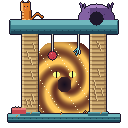
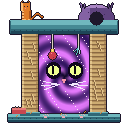
Cat gate: the portal fills the whole gap under the perch, violet vortex with a cat face (slit eyes in dark sockets, nose, whiskers), closed and beaten states are yarn only with no background, bell and paw prints

Changed region(s): [[0.2812, 0.25, 0.7188, 0.9375]]

diff --git a/tools/hub/gates_new.js b/tools/hub/gates_new.js
@@ -39,7 +39,7 @@ const save = (c, rel) => { fs.mkdirSync(path.dirname(path.join(ROOT, rel)), { re
 // THE CAT'S GATE: a cat tree
 // =========================================================================================================================
 const CAT = {
-  open: { x0: 38, x1: 90, y0: 42, y1: 118, r: 14 },    // the doorway: a rounded cat-hole between the posts
+  open: { x0: 38, x1: 90, y0: 35, y1: 114, r: 0 },     // the doorway: the whole gap between the posts, from under the perch to the plinth
   outline: [30, 24, 44],
   sisal: [[226, 196, 140], [206, 172, 114], [176, 140, 90], [138, 104, 66]],
   carpet: [[112, 184, 190], [70, 138, 148], [48, 104, 118], [30, 70, 88]],
@@ -73,8 +73,10 @@ function catFrame(sleeping, phase) {
   disc(c, 96, 18, 7, CAT.outline); rect(c, 89, 18, 104, 20, CAT.outline);                                 // the hide's doorway
   for (const [x, y] of [[88, 12], [104, 14], [96, 7]]) set(c, x, y, CAT.plush[3]);
   // The toys: a pom-pom on a string in the doorway, a feather on the right.
-  line(c, 52, 34, 52, 52, [220, 210, 190]); disc(c, 52, 55, 4, [204, 60, 76]); set(c, 51, 53, [240, 140, 150]); set(c, 53, 57, [150, 36, 56]);
+  line(c, 52, 34, 52, 52, [220, 210, 190]); disc(c, 52, 55, 4, [204, 60, 76]); disc(c, 52, 50, 1.5, [240, 200, 80]); set(c, 52, 50, [255, 240, 160]); set(c, 51, 53, [240, 140, 150]); set(c, 53, 57, [150, 36, 56]);
   line(c, 78, 34, 78, 46, [220, 210, 190]); line(c, 78, 46, 76, 54, [92, 190, 200]); line(c, 78, 46, 79, 53, [186, 232, 236]); line(c, 77, 48, 74, 51, [92, 190, 200]);
+  // Paw prints on the plinth's lip: a pad and four toes, pale pink.
+  for (const px of [44, 62, 80]) { rect(c, px, 116, px + 3, 118, [232, 170, 180]); for (const tx of [-1, 1, 3, 5]) set(c, px + tx - (tx === 5 ? 1 : 0), 114 + (tx === 1 || tx === 3 ? 0 : 1), [232, 170, 180]); }
   // A fish dish and a few tufts of fur on the plinth.
   rect(c, 12, 108, 26, 114, [198, 70, 80]); rect(c, 12, 108, 26, 110, [230, 120, 120]); for (const x of [15, 18, 21]) set(c, x, 107, [160, 110, 70]);
   for (const [x, y] of [[30, 113], [60, 114], [100, 113], [84, 112], [16, 116]]) { set(c, x, y, [226, 128, 44]); set(c, x + 1, y - 1, [226, 128, 44]); }
@@ -105,34 +107,38 @@ function tabby(c, sleeping, phase) {
   for (let i = 0; i < 12; i++) { const t = i / 11; set(c, 31 + i, 18 - Math.round(Math.sin(t * Math.PI) * 4 + sway * t), O); set(c, 31 + i, 19 - Math.round(Math.sin(t * Math.PI) * 4 + sway * t), D); }
 }
 
-// The doorway's contents for each state, clipped to the cat-hole.
+// The doorway's contents for each state. Awake: a vortex of violet yarn with a cat's face in it (slit eyes that stand out against the
+// purple, a nose, whiskers). Asleep or beaten: NO background, so the hall shows through; the doorway is only barred by criss-crossing yarn.
 function catPortal(state, f) {
-  const c = canvas(), o = CAT.open, cx = 64, cy = 84;
-  for (let y = o.y0; y < o.y1; y++) for (let x = o.x0; x < o.x1; x++) {
-    if (!inCatDoor(x, y)) continue;
-    const t = (y - o.y0) / (o.y1 - o.y0);
-    let col = mix([26, 20, 40], [44, 30, 56], t);
-    if (state === "active") {
+  const c = canvas(), o = CAT.open, cx = 64, cy = 76;
+  if (state === "active") {
+    for (let y = o.y0; y < o.y1; y++) for (let x = o.x0; x < o.x1; x++) {
       const dx = x - cx, dy = (y - cy) * 0.9, r = Math.hypot(dx, dy), a = Math.atan2(dy, dx);
       const v = Math.sin(a * 3 + r * 0.38 - (f / FRAMES) * Math.PI * 2 * 2) * 0.5 + 0.5;         // spiralling yarn
-      const edge = Math.max(0, 1 - Math.abs(r - 24) / 24);                                         // brightest in a ring
-      const k = Math.min(1, v * 0.8 + edge * 0.35);
-      col = r < 7 ? mix([20, 14, 30], [60, 36, 40], r / 7) : mix([88, 36, 30], [255, 200, 90], Math.pow(k, 1.4) * (1 - Math.max(0, (r - 30) / 26) * 0.55));
-      if (((x * 7 + y * 13 + f * 5) % 53) === 0 && r > 12) col = [255, 244, 190];                    // sparks
-    } else if (state === "completed") col = mix(col, [20, 16, 30], 0.4);
-    set(c, x, y, col);
-  }
-  if (state === "active") {                                                                          // the cat's eyes in the dark of the vortex
-    const blink = f === 5 || f === 6 ? 1 : 3, pulse = 0.5 + 0.5 * Math.sin((f / FRAMES) * Math.PI * 2);
-    for (const ex of [56, 72]) { for (let y = -3; y <= 3; y++) for (let x = -3; x <= 3; x++) if ((x / 3.2) ** 2 + (y / blink) ** 2 <= 1) set(c, ex + x, 74 + y, mix([200, 230, 70], [255, 255, 150], pulse)); if (blink > 1) rect(c, ex, 71, ex + 1, 78, [10, 6, 16]); }
-  }
-  if (state === "completed") {                                                                       // yarn criss-crossing the doorway, a ball at the foot
+      const edge = Math.max(0, 1 - Math.abs(r - 26) / 26);                                         // brightest in a ring
+      const k = Math.min(1, v * 0.8 + edge * 0.35), fall = 1 - Math.max(0, (r - 30) / 30) * 0.5;
+      let col = mix([36, 14, 84], [226, 120, 250], Math.pow(k, 1.4) * fall);
+      if (r < 7) col = mix([14, 8, 34], col, r / 7);
+      if (((x * 7 + y * 13 + f * 5) % 53) === 0 && r > 12) col = [255, 226, 250];                  // sparks
+      set(c, x, y, col);
+    }
+    // A cat's face: slit eyes in a dark socket, a nose, three whiskers a side.
+    const blink = f === 5 || f === 6 ? 1.2 : 5, pulse = 0.5 + 0.5 * Math.sin((f / FRAMES) * Math.PI * 2);
+    for (const ex of [53, 75]) {
+      for (let y = -9; y <= 9; y++) for (let x = -8; x <= 8; x++) if ((x / 7.6) ** 2 + (y / Math.max(3, blink + 3.4)) ** 2 <= 1) set(c, ex + x, 70 + y, [14, 6, 28]);            // the dark socket
+      for (let y = -7; y <= 7; y++) for (let x = -6; x <= 6; x++) if ((x / 5.8) ** 2 + (y / blink) ** 2 <= 1) set(c, ex + x, 70 + y, mix([190, 255, 70], [255, 255, 170], pulse));  // the eye
+      if (blink > 2) rect(c, ex - 1, 70 - blink + 1, ex + 1, 70 + blink - 1, [8, 4, 16]);                                                                                       // the slit pupil
+      else rect(c, ex - 5, 70, ex + 5, 71, [8, 4, 16]);
+    }
+    for (let i = 0; i < 4; i++) rect(c, 62 + (i > 1 ? 1 : 0) + (i === 3 || i === 0 ? -(i === 0 ? 0 : 0) : 0), 79 + i, 66 - (i > 1 ? 1 : 0), 80 + i, [250, 150, 170]); // the nose, a little triangle
+    for (const [dy, dx] of [[-3, 16], [1, 18], [5, 15]]) { line(c, 59, 84, 59 - dx, 84 + dy, [240, 232, 250]); line(c, 69, 84, 69 + dx, 84 + dy, [240, 232, 250]); }          // whiskers
+  } else {
+    // Yarn criss-crossing the doorway (the beaten gate also has the ball at its foot). Nothing is drawn behind it.
     const reds = [[210, 70, 84], [150, 40, 62]], blues = [[96, 140, 220], [56, 90, 170]];
-    const strand = (x0, y0, x1, y1, pal) => { line(c, x0, y0, x1, y1, pal[0]); line(c, x0, y0 + 1, x1, y1 + 1, pal[1]); };
-    strand(36, 52, 92, 108, reds); strand(92, 50, 36, 106, blues); strand(36, 80, 92, 74, reds); strand(36, 96, 92, 62, blues); strand(40, 112, 90, 56, reds);
-    for (const [x, y] of [[64, 80], [50, 66], [78, 66], [50, 94], [78, 94]]) disc(c, x, y, 1.6, [240, 230, 210]);   // the knots
-    disc(c, 56, 108, 8, reds[0]); disc(c, 56, 108, 7, reds[1]); for (let i = 0; i < 5; i++) line(c, 49 + i, 106 - i / 2, 62 - i, 112 - i, i % 2 ? reds[0] : [236, 110, 122]);
-    line(c, 64, 112, 80, 116, reds[0]);
+    const strand = (x0, y0, x1, y1, pal) => { line(c, x0, y0, x1, y1, pal[0]); line(c, x0, y0 + 1, x1, y1 + 1, pal[1]); line(c, x0, y0 - 1, x1, y1 - 1, pal[0]); };
+    strand(38, 44, 90, 104, reds); strand(90, 42, 38, 102, blues); strand(38, 72, 90, 66, reds); strand(38, 90, 90, 56, blues); strand(40, 110, 88, 48, reds); strand(38, 60, 90, 84, blues);
+    for (const [x, y] of [[64, 74], [50, 58], [78, 58], [50, 86], [78, 86], [64, 52], [64, 96]]) disc(c, x, y, 1.8, [240, 230, 210]);   // the knots
+    if (state === "completed") { disc(c, 56, 108, 8, reds[0]); disc(c, 56, 108, 7, reds[1]); for (let i = 0; i < 5; i++) line(c, 49 + i, 106 - i / 2, 62 - i, 112 - i, i % 2 ? reds[0] : [236, 110, 122]); line(c, 64, 112, 80, 116, reds[0]); }
   }
   return c;
 }
